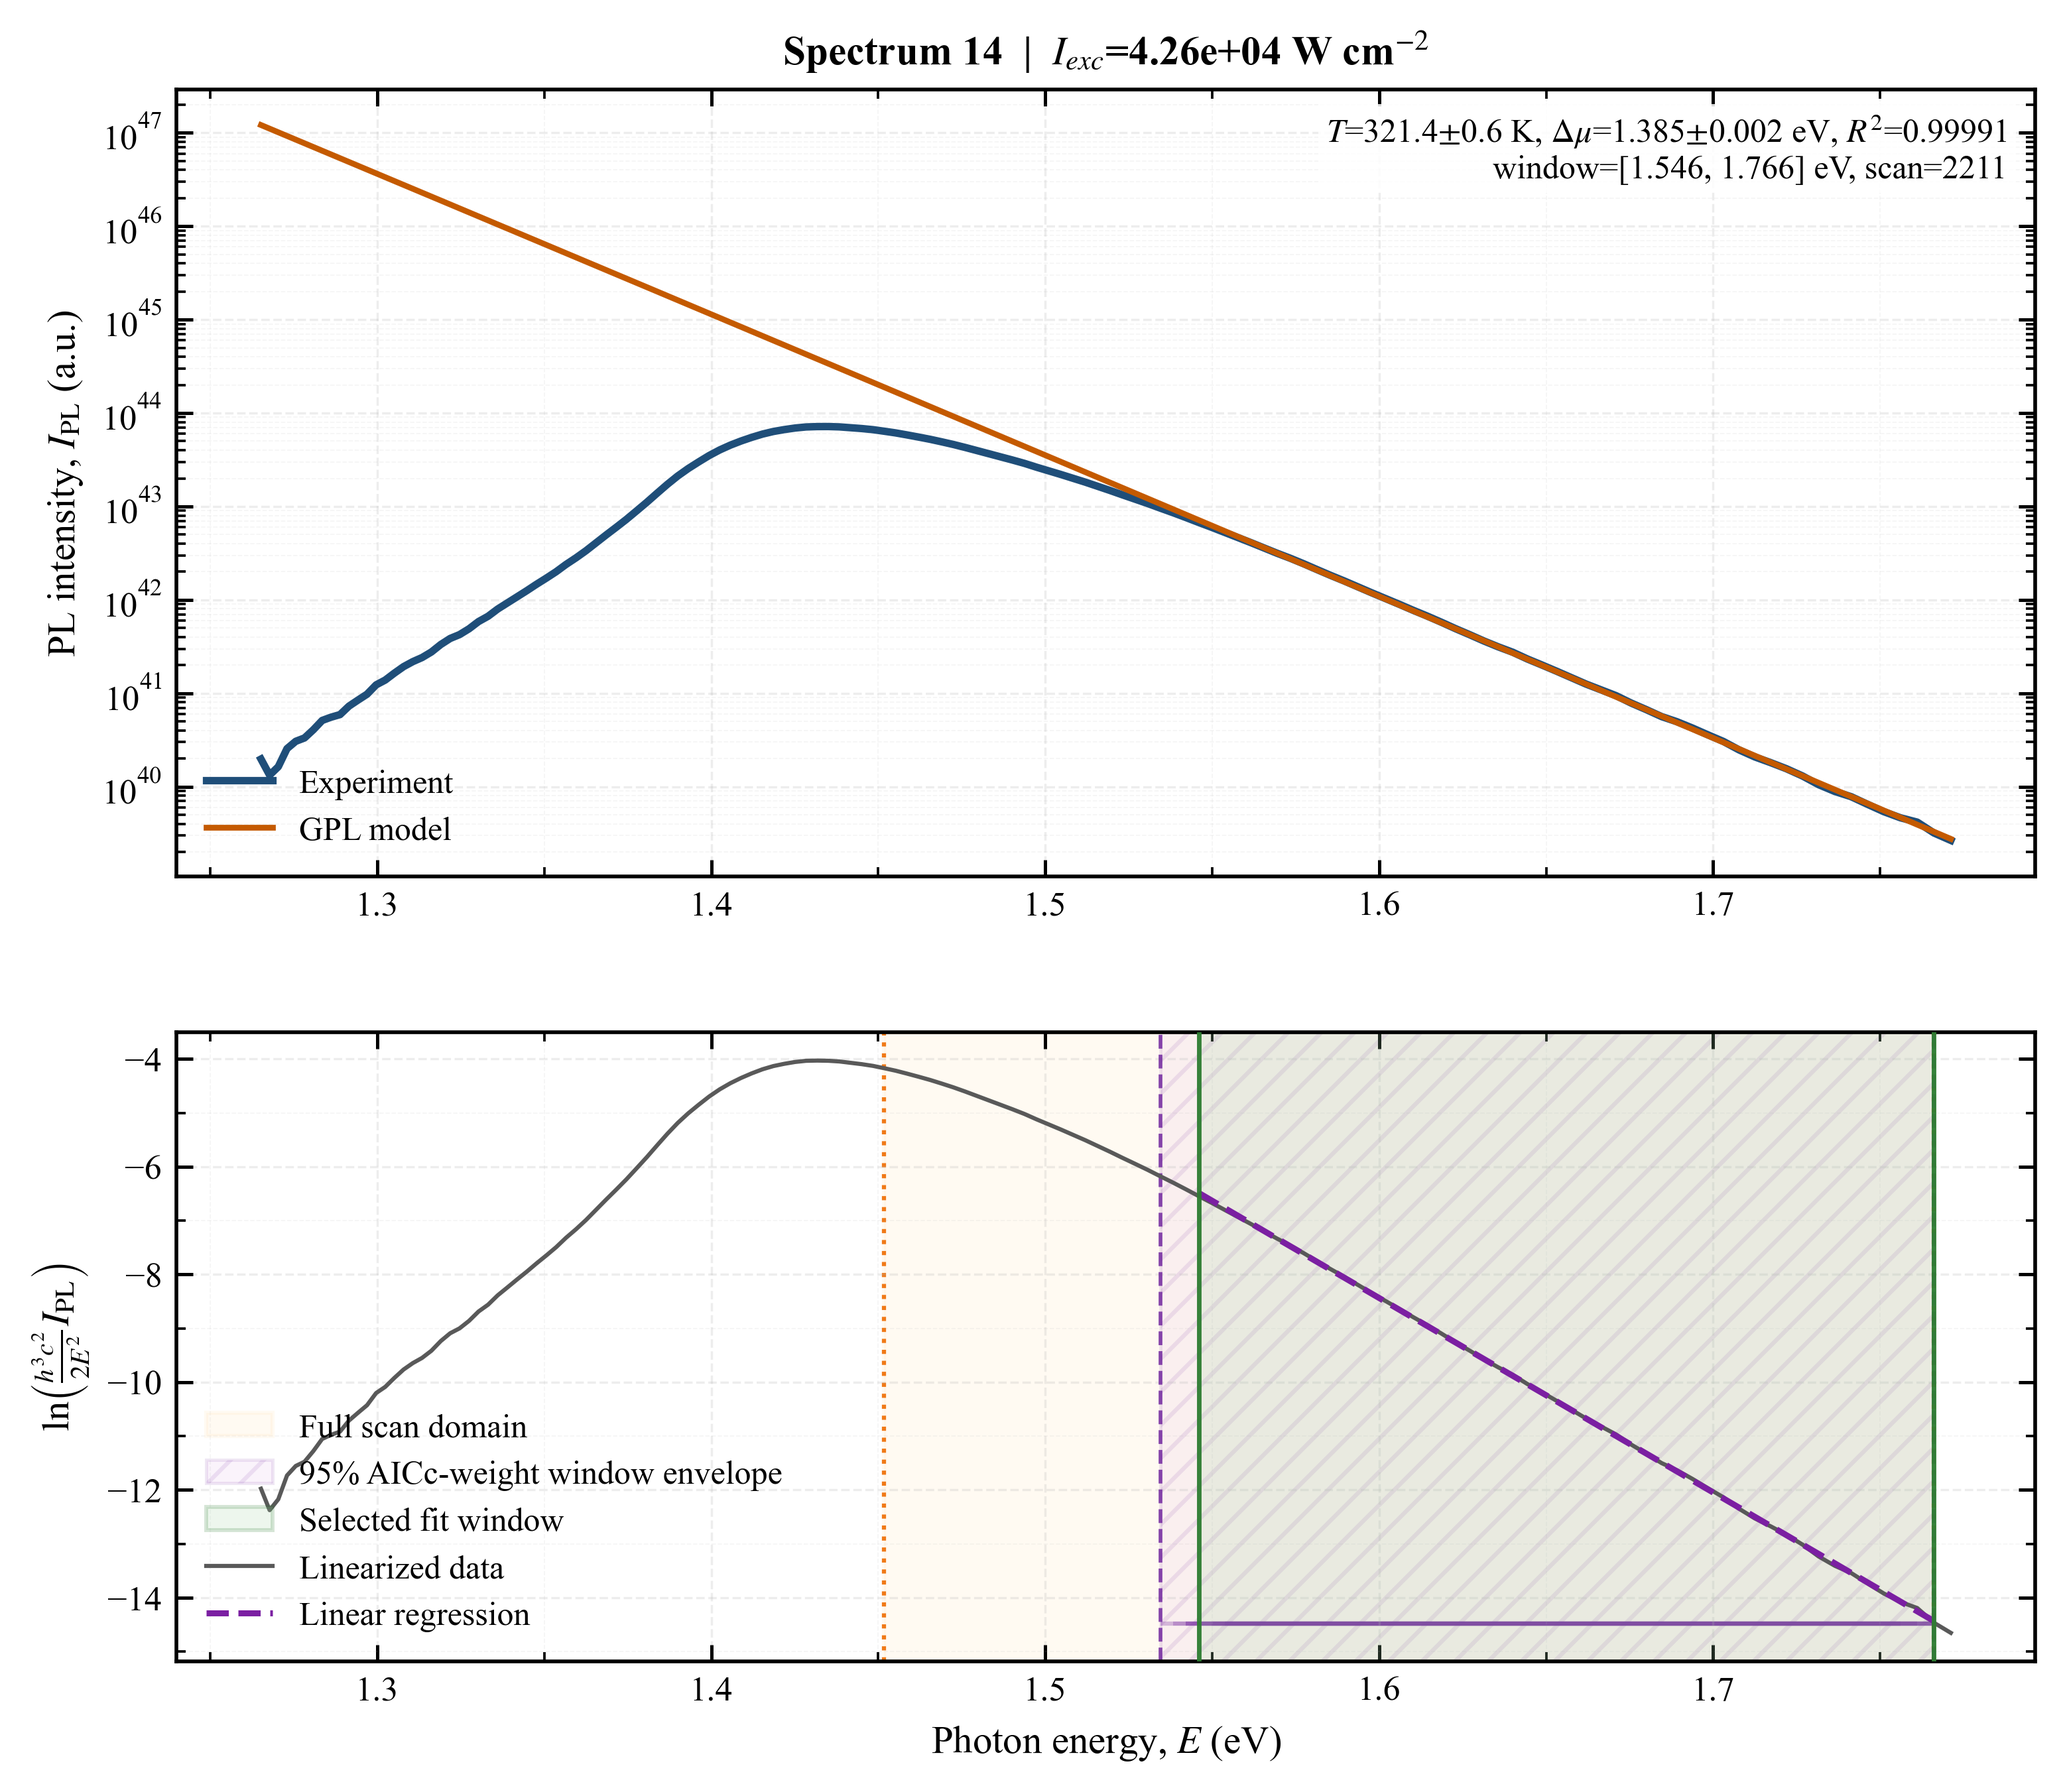
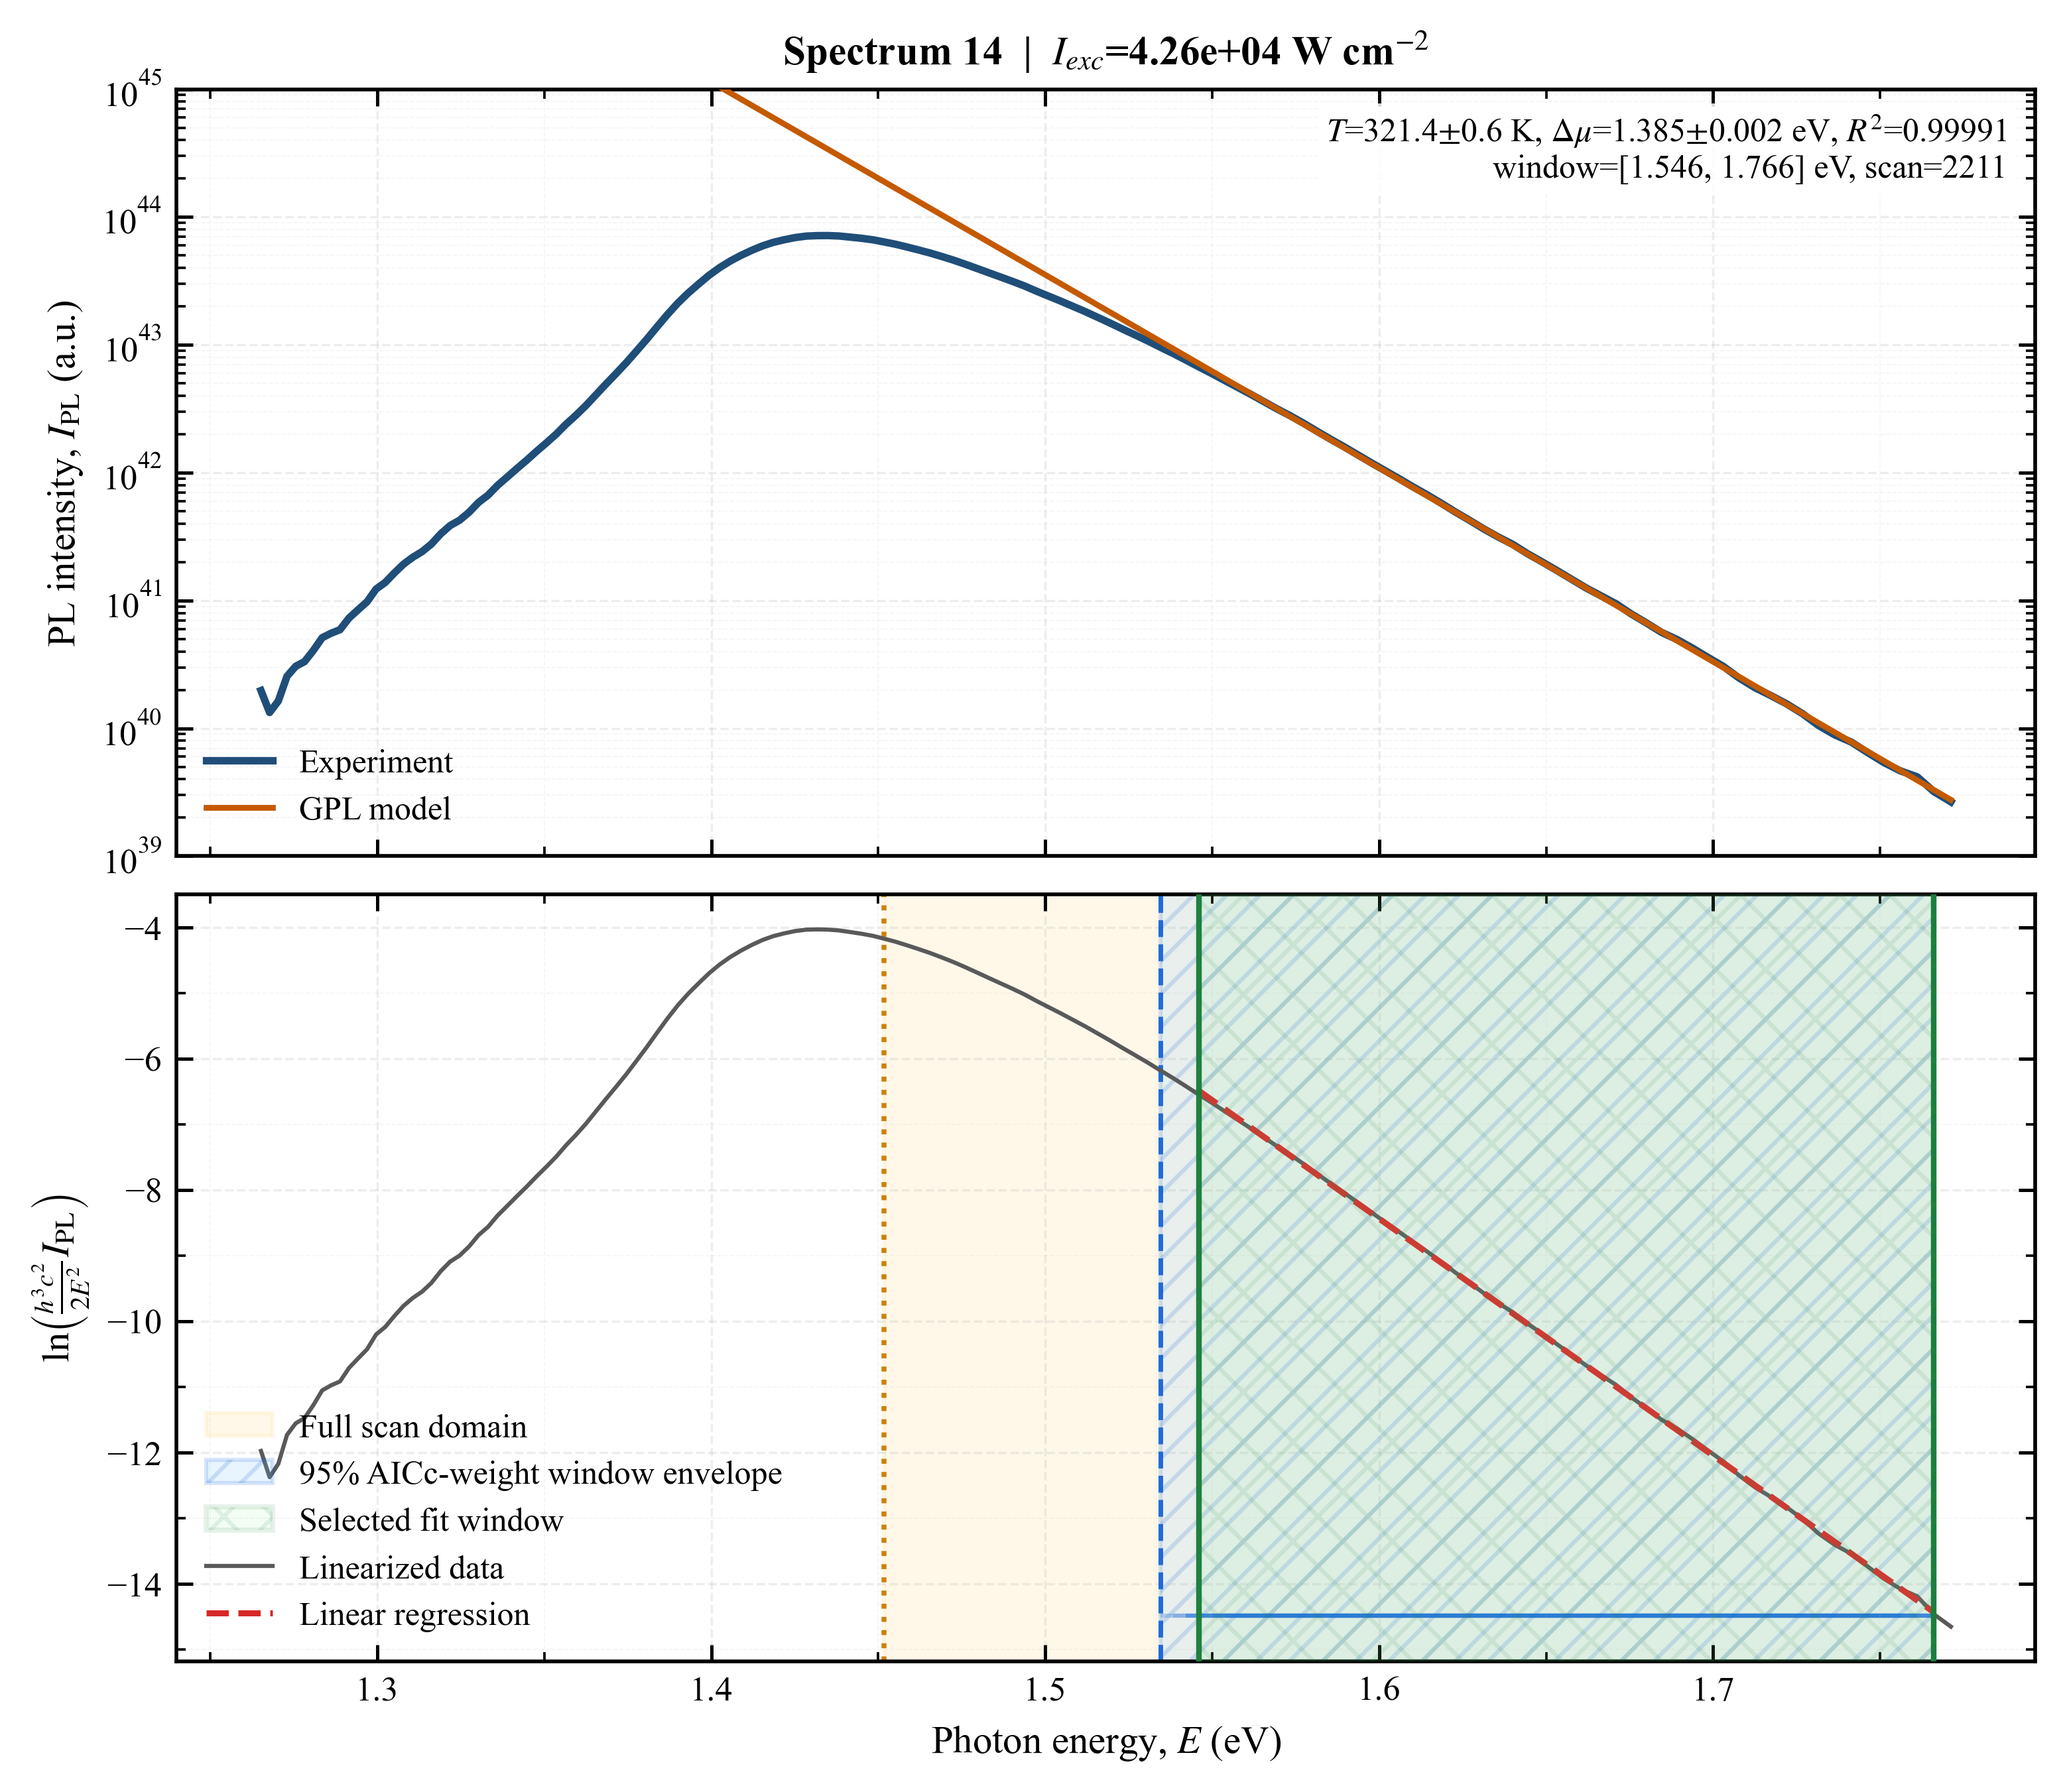
Improved plotting clarity

diff --git a/hot_carrier/plotting.py b/hot_carrier/plotting.py
@@ -265,17 +265,17 @@ def plot_single_fit(
         2,
         1,
         figsize=_page_single_column_figsize(PAGE_TALL_FIG_HEIGHT_IN),
-        sharex=False,
-        gridspec_kw={"height_ratios": [1.25, 1.0], "hspace": 0.22},
+        sharex=True,
+        gridspec_kw={"height_ratios": [1.0, 1.0], "hspace": 0.05},
     )
     ax0, ax1 = axes
 
-    scan_fill_color = "#ffe0b2"
-    scan_edge_color = "#ef6c00"
-    selected_fill_color = "#a5d6a7"
-    selected_edge_color = "#2e7d32"
-    envelope_fill_color = "#ce93d8"
-    envelope_edge_color = "#6a1b9a"
+    scan_fill_color = "#ffd166"
+    scan_edge_color = "#c97b00"
+    selected_fill_color = "#80ed99"
+    selected_edge_color = "#1b7f3b"
+    envelope_fill_color = "#74c0fc"
+    envelope_edge_color = "#0b5ed7"
 
     ax0.plot(energy_ev, intensity, color="#1f4e79", lw=1.8, label="Experiment", zorder=5)
     ax0.plot(
@@ -289,6 +289,13 @@ def plot_single_fit(
     )
 
     style_axes(ax0, logy=True)
+    positive_intensity = intensity[np.isfinite(intensity) & (intensity > 0)]
+    if positive_intensity.size > 0:
+        y_top = 10.0 ** (float(np.ceil(np.log10(np.max(positive_intensity)))) + 1.0)
+        y_bottom = 10.0 ** float(np.floor(np.log10(np.min(positive_intensity))))
+        if np.isfinite(y_top) and np.isfinite(y_bottom) and (y_top > y_bottom):
+            ax0.set_ylim(y_bottom, y_top)
+    ax0.tick_params(axis="x", which="both", labelbottom=False)
     ax0.set_ylabel(r"PL intensity, $I_{\mathrm{PL}}$ (a.u.)")
     ax0.legend(loc="lower left", fontsize=LEGEND_FONT_SIZE, frameon=False)
     ax0.set_title(
@@ -332,15 +339,15 @@ def plot_single_fit(
             scan_domain_ev[0],
             scan_domain_ev[1],
             color=scan_fill_color,
-            alpha=0.16,
+            alpha=0.14,
             zorder=0,
             label="Full scan domain",
         )
         ax1.axvline(
-            scan_domain_ev[0], color=scan_edge_color, lw=1.0, ls=":", alpha=0.9, zorder=1
+            scan_domain_ev[0], color=scan_edge_color, lw=1.2, ls=":", alpha=0.95, zorder=1
         )
         ax1.axvline(
-            scan_domain_ev[1], color=scan_edge_color, lw=1.0, ls=":", alpha=0.9, zorder=1
+            scan_domain_ev[1], color=scan_edge_color, lw=1.2, ls=":", alpha=0.95, zorder=1
         )
     if fit_range_windows_ev:
         for lo_ev, hi_ev in fit_range_windows_ev:
@@ -361,27 +368,28 @@ def plot_single_fit(
             lo_env,
             hi_env,
             facecolor=envelope_fill_color,
-            alpha=0.10,
+            alpha=0.16,
             hatch="///",
             edgecolor=envelope_edge_color,
-            lw=0.8,
+            lw=1.0,
             zorder=1,
             label=f"{coverage_pct:.0f}% AICc-weight window envelope",
         )
-        ax1.axvline(lo_env, color=envelope_edge_color, lw=0.9, ls="--", alpha=0.8, zorder=2)
-        ax1.axvline(hi_env, color=envelope_edge_color, lw=0.9, ls="--", alpha=0.8, zorder=2)
+        ax1.axvline(lo_env, color=envelope_edge_color, lw=1.1, ls="--", alpha=0.9, zorder=2)
+        ax1.axvline(hi_env, color=envelope_edge_color, lw=1.1, ls="--", alpha=0.9, zorder=2)
     ax1.axvspan(
         fit_min_ev,
         fit_max_ev,
         facecolor=selected_fill_color,
-        alpha=0.20,
+        alpha=0.10,
+        hatch="xx",
         edgecolor=selected_edge_color,
-        lw=0.95,
-        zorder=2,
+        lw=1.25,
+        zorder=3,
         label="Selected fit window",
     )
-    ax1.axvline(fit_min_ev, color=selected_edge_color, lw=1.1, ls="-", alpha=0.95, zorder=3)
-    ax1.axvline(fit_max_ev, color=selected_edge_color, lw=1.1, ls="-", alpha=0.95, zorder=3)
+    ax1.axvline(fit_min_ev, color=selected_edge_color, lw=1.35, ls="-", alpha=0.98, zorder=4)
+    ax1.axvline(fit_max_ev, color=selected_edge_color, lw=1.35, ls="-", alpha=0.98, zorder=4)
     ax1.plot(energy_ev[intensity > 0], y_all, color="0.35", lw=1.0, label="Linearized data")
 
     x_fit_ev = energy_ev[fit_mask]
@@ -390,7 +398,7 @@ def plot_single_fit(
     ax1.plot(
         x_fit_ev,
         y_line,
-        color="#7b1fa2",
+        color="#d62828",
         lw=1.45,
         ls="--",
         label="Linear regression",
@@ -400,7 +408,7 @@ def plot_single_fit(
     ax1.set_ylabel(r"$\ln\!\left(\frac{h^3 c^2}{2E^2}I_{\mathrm{PL}}\right)$")
     ax1.legend(loc="lower left", fontsize=LEGEND_FONT_SIZE, frameon=False)
 
-    fig.subplots_adjust(left=0.11, right=0.98, bottom=0.09, top=0.94, hspace=0.18)
+    fig.subplots_adjust(left=0.11, right=0.98, bottom=0.09, top=0.94, hspace=0.04)
     save_figure(fig, outpath)
     plt.close(fig)
 
@@ -571,7 +579,7 @@ def plot_summary(results_df: pd.DataFrame, outpath: Path) -> None:
         fontsize=SUPTITLE_FONT_SIZE,
         fontweight="bold",
     )
-    fig.subplots_adjust(left=0.11, right=0.98, bottom=0.10, top=0.935, hspace=0.12, wspace=0.22)
+    fig.subplots_adjust(left=0.11, right=0.98, bottom=0.10, top=0.935, hspace=0.07, wspace=0.22)
     save_figure(fig, outpath)
     plt.close(fig)
 
@@ -1002,7 +1010,7 @@ def plot_thermalized_power_diagnostics(results_df: pd.DataFrame, outpath: Path) 
     fig.suptitle(
         r"Thermalized-power diagnostics in carrier-state space",
         y=0.986,
-        fontsize=SUPTITLE_FONT_SIZE,
+        fontsize=SUPTITLE_FONT_SIZE + 0.8,
         fontweight="bold",
     )
     fig.subplots_adjust(
@@ -1010,7 +1018,7 @@ def plot_thermalized_power_diagnostics(results_df: pd.DataFrame, outpath: Path) 
         right=0.965,
         bottom=0.09,
         top=0.93,
-        hspace=0.16,
+        hspace=0.10,
         wspace=0.24,
     )
     save_figure(fig, outpath)
@@ -1262,7 +1270,7 @@ def plot_recombination_channel_contributions(
         fontsize=SUPTITLE_FONT_SIZE,
         fontweight="bold",
     )
-    fig.subplots_adjust(left=0.10, right=0.98, bottom=0.10, top=0.935, hspace=0.14, wspace=0.20)
+    fig.subplots_adjust(left=0.10, right=0.98, bottom=0.10, top=0.935, hspace=0.08, wspace=0.20)
     save_figure(fig, outpath)
     plt.close(fig)
 
